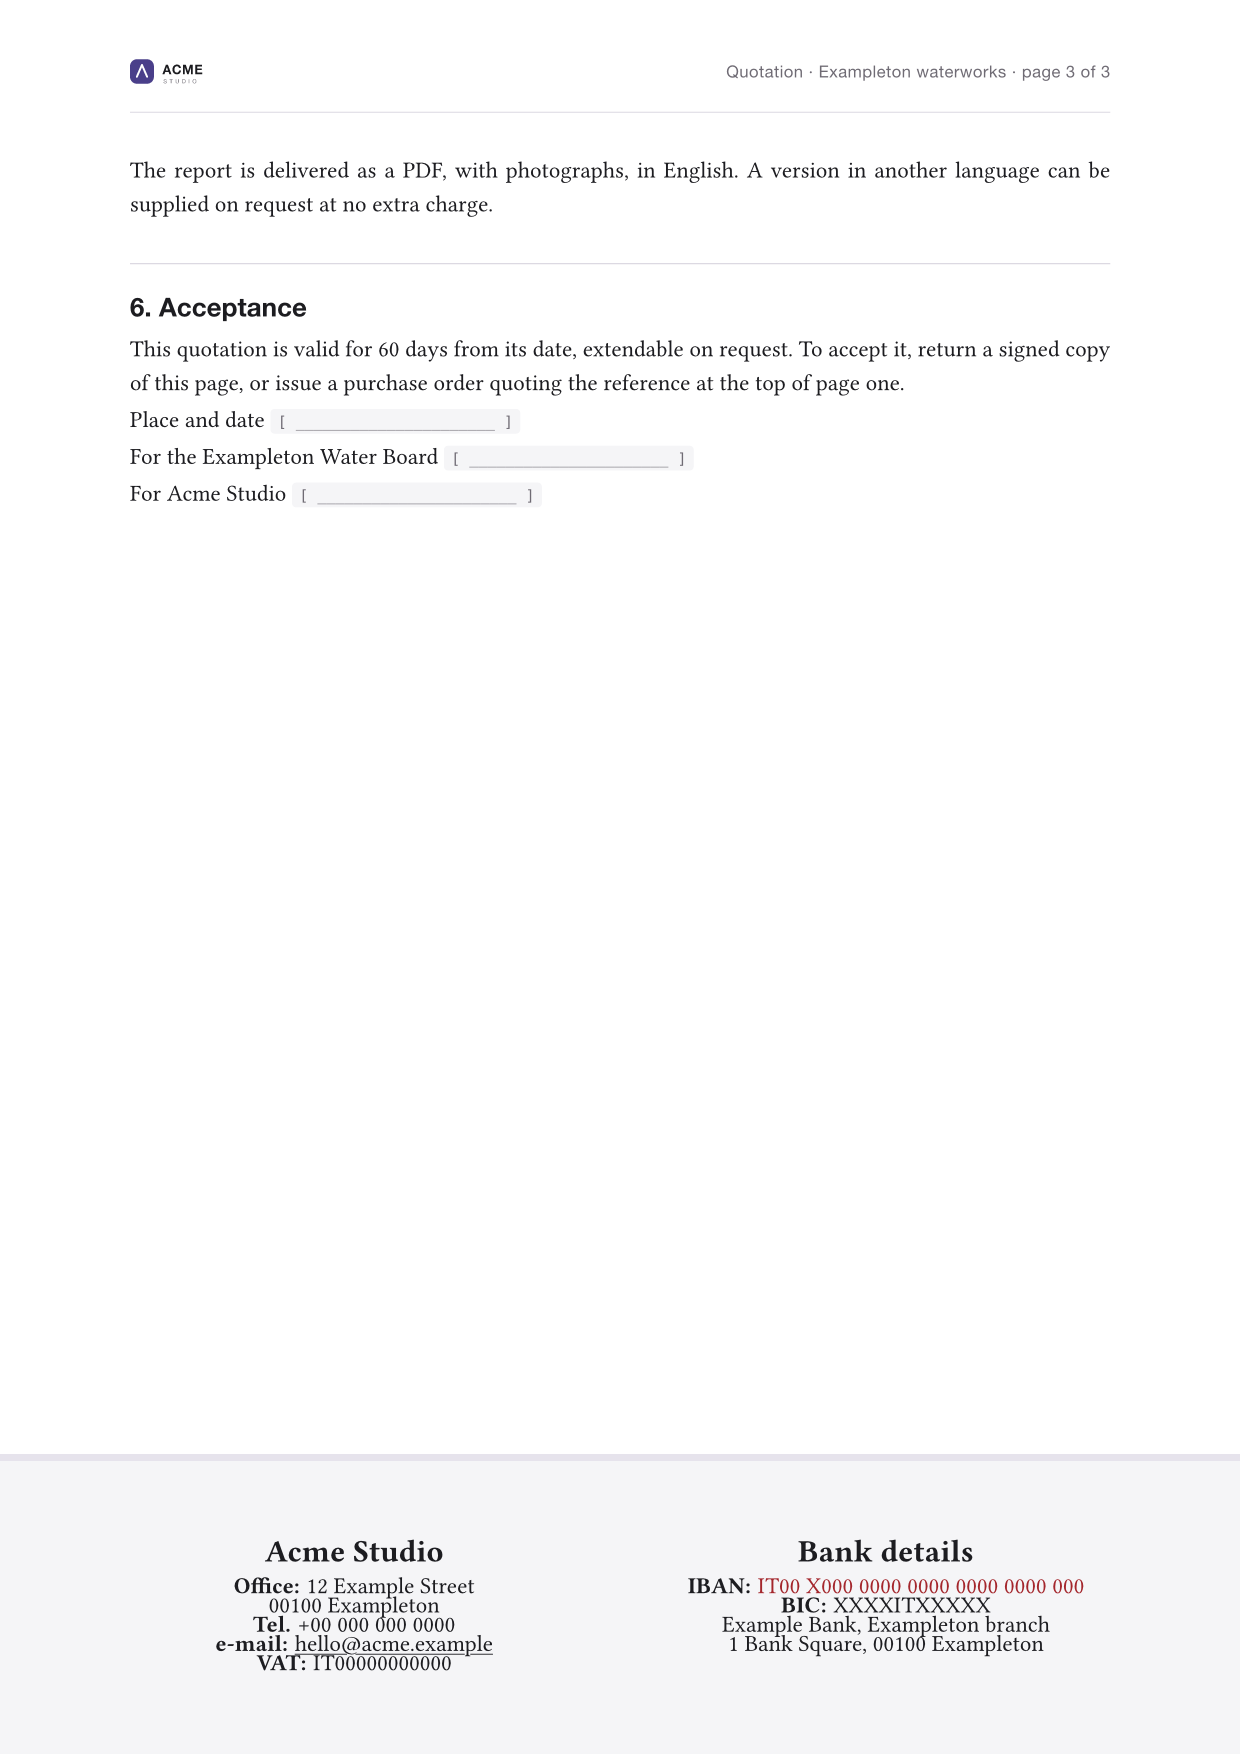
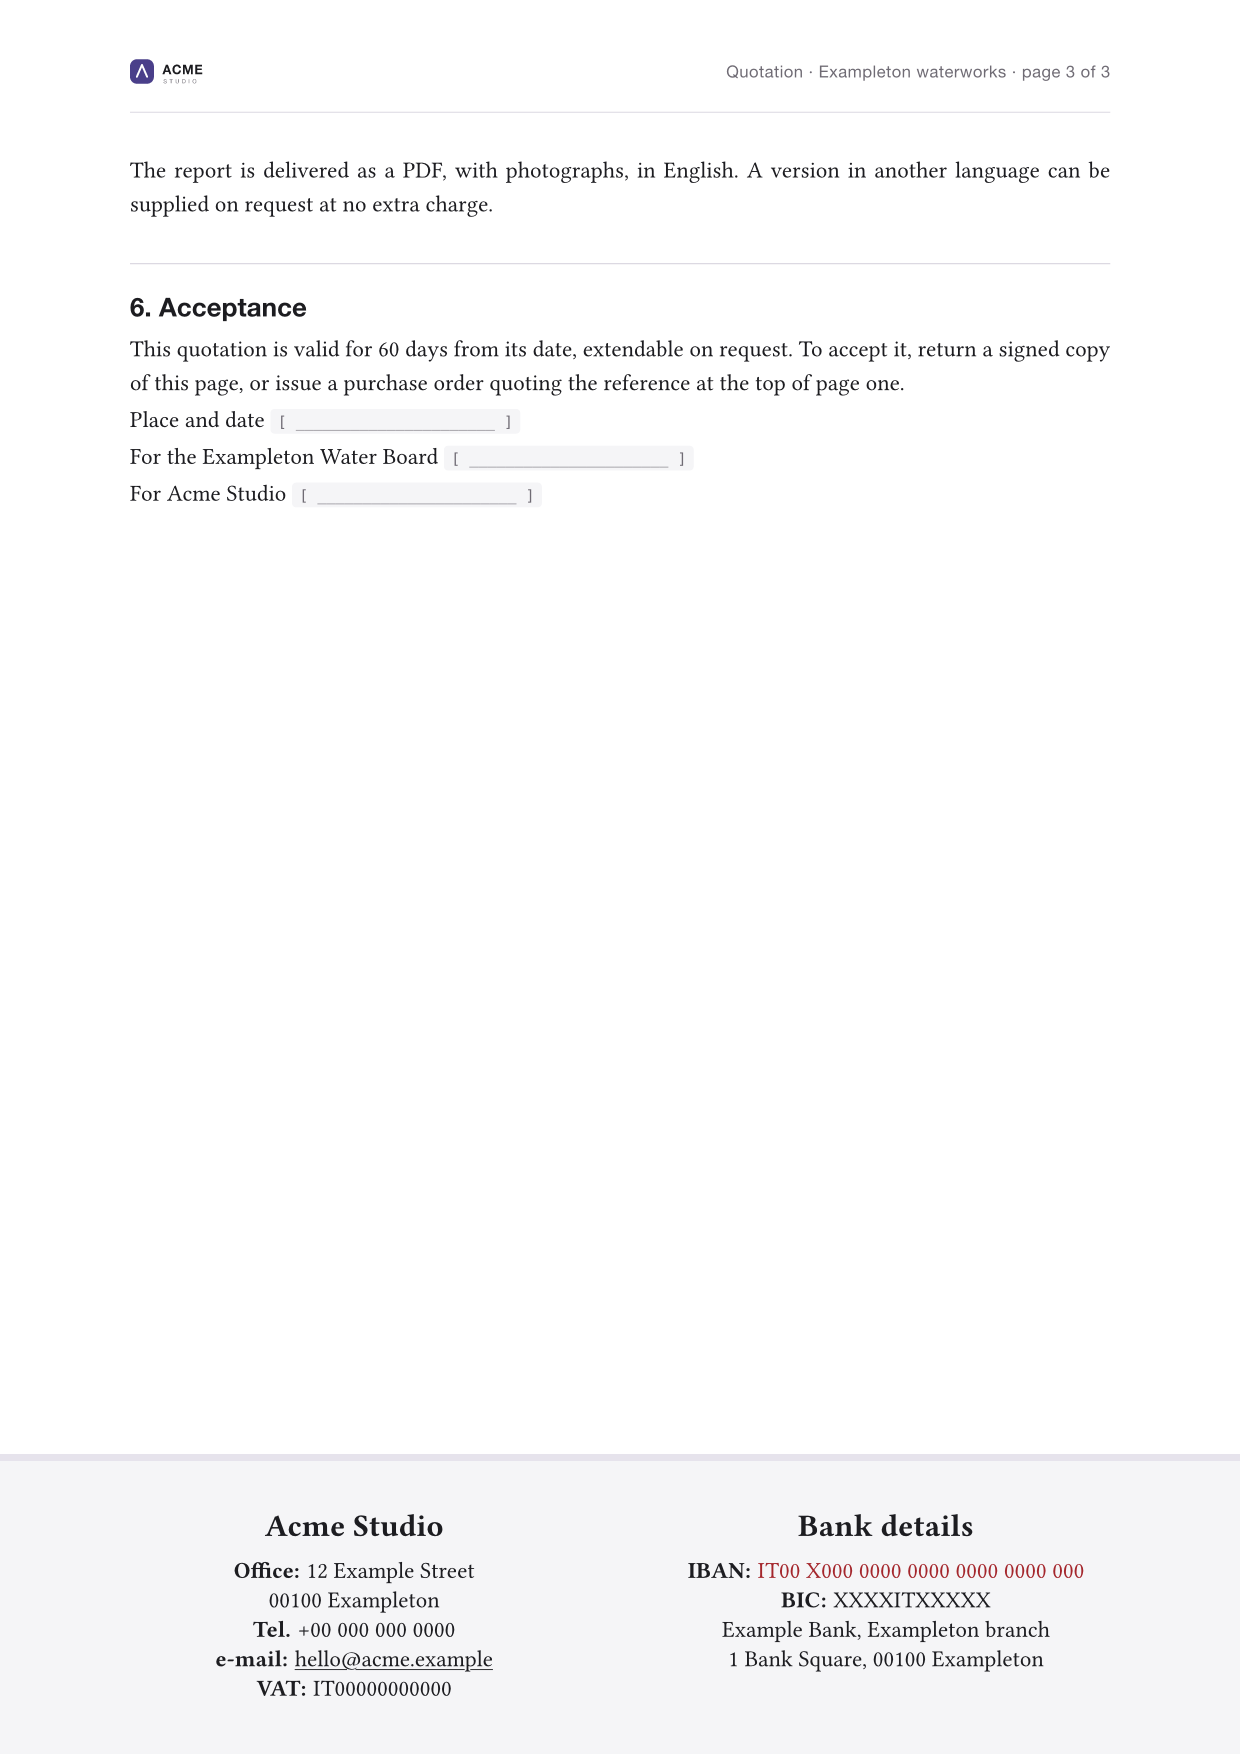
style(footer): give the band's rows room to breathe

Changed region(s): [[0.5516, 0.862, 0.8887, 0.9544], [0.1839, 0.862, 0.3984, 0.9852]]

diff --git a/src/mela_letterhead/config.py b/src/mela_letterhead/config.py
@@ -167,7 +167,11 @@ DEFAULT_CONFIG: Dict[str, Any] = {
         "align": "center",
         "title_size": "15pt",
         "size": "11pt",
-        "leading": "2pt",
+        # Air between the rows of a column. Kept in the same proportion to the
+        # text as the header fields' own leading is to theirs, so both blocks
+        # of detail read alike; the band centres its content, so a taller
+        # column simply eats into the space above and below it.
+        "leading": "6.9pt",
         "title_gap": "6pt",
         # Gutter between columns.
         "gutter": "40pt",
